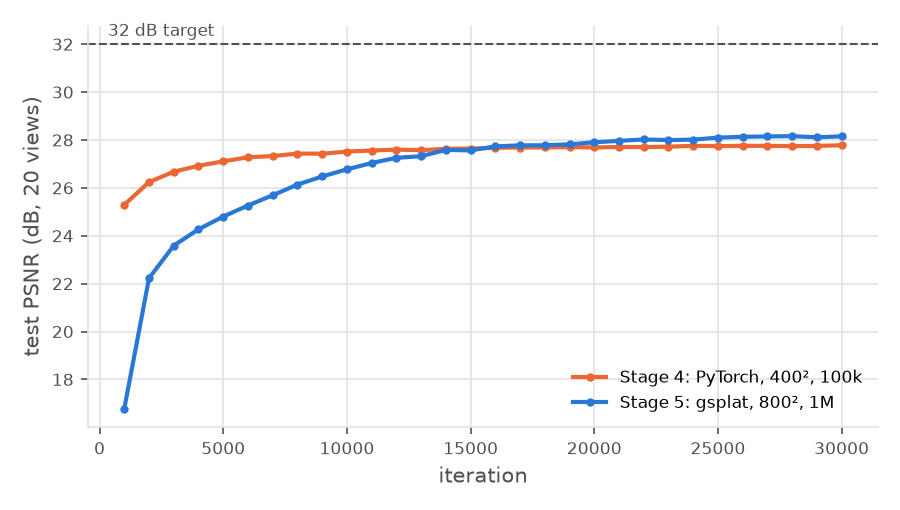
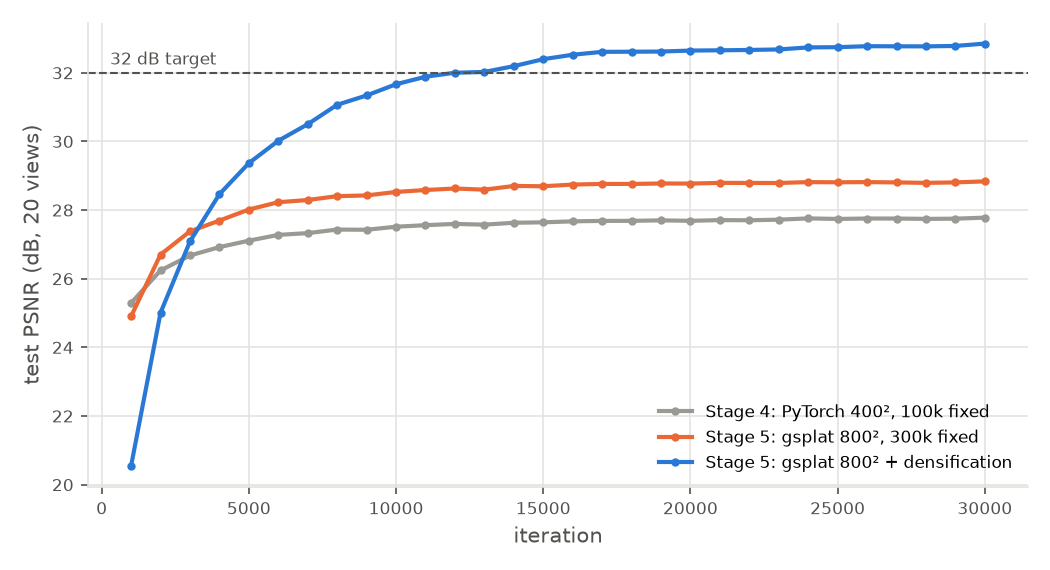
Stage 5: lego 32.96 dB at 800x800 with reference densification; README section
- fixed-set runs (100k/300k/1M) stall at <=28.95 dB: 97% of error on the object
- gsplat DefaultStrategy in my loop: 100k -> 360k Gaussians, 32.96 dB / SSIM 0.977, 16 min
- figures: agreement, benchmark, renders with zooms, curves

Changed region(s): [[0.0, 0.0294, 0.9956, 0.9706]]

diff --git a/scripts/plot_stage5.py b/scripts/plot_stage5.py
@@ -31,10 +31,11 @@ def style(ax):
 
 def main():
     ap = argparse.ArgumentParser()
-    ap.add_argument("--run", required=True)
+    ap.add_argument("--run", required=True, help="best Stage 5 run (densified)")
+    ap.add_argument("--fixed", required=True, help="best Stage 5 run without densification")
     ap.add_argument("--stage4", required=True)
     args = ap.parse_args()
-    run, run4 = Path(args.run), Path(args.stage4)
+    run, runf, run4 = Path(args.run), Path(args.fixed), Path(args.stage4)
 
     # ---- benchmark: ms and GB vs N, one panel per resolution
     prof = {b: json.load(open(f"/mnt/outputs/profiles/{b}_trained.json")) for b in ("torch", "gsplat")}
@@ -60,31 +61,38 @@ def main():
     axes[0, 0].legend(frameon=False, fontsize=8)
     fig.tight_layout(); fig.savefig(OUT / "stage5_benchmark.png"); plt.close(fig)
 
-    # ---- renders: GT | Stage 4 (400², upsampled) | Stage 5 (800²), full + zoom
+    # ---- renders: GT | Stage 4 (400², upsampled) | Stage 5 fixed set | Stage 5 densified, full + zoom
     f5 = sorted((run / "renders").glob("test_*.png"))[:2]
-    fig, axes = plt.subplots(2 * len(f5), 3, figsize=(10.5, 7 * len(f5)), dpi=150)
+    cols = 4
+    fig, axes = plt.subplots(2 * len(f5), cols, figsize=(3.4 * cols, 7 * len(f5)), dpi=150)
     for k, f in enumerate(f5):
-        im5 = iio.imread(f); w = im5.shape[1] // 2
-        gt, r5 = im5[:, :w], im5[:, w:]
-        im4 = iio.imread(run4 / "renders" / f.name); w4 = im4.shape[1] // 2
-        r4 = np.repeat(np.repeat(im4[:, w4:], 2, 0), 2, 1)          # 400 -> 800, nearest
-        y0, x0, s = 330, 300, 160                                    # zoom on the bucket / tracks
-        for c, (im, t) in enumerate(((gt, "ground truth 800²"), (r4, "Stage 4: PyTorch, 400² (×2)"),
-                                     (r5, "Stage 5: gsplat, 800²"))):
+        def half(p, right=True):
+            im = iio.imread(p); w = im.shape[1] // 2
+            return im[:, w:] if right else im[:, :w]
+        gt, r5 = half(f, False), half(f)
+        rf = half(runf / "renders" / f.name)
+        r4 = np.repeat(np.repeat(half(run4 / "renders" / f.name), 2, 0), 2, 1)   # 400 -> 800, nearest
+        y0, x0, s = 330, 300, 160                                    # zoom window
+        tiles = ((gt, "ground truth 800²"), (r4, "Stage 4: PyTorch 400², 100k fixed (×2)"),
+                 (rf, "Stage 5: gsplat 800², 300k fixed"), (r5, "Stage 5: gsplat 800² + densification"))
+        for c, (im, t) in enumerate(tiles):
             axes[2 * k, c].imshow(im); axes[2 * k + 1, c].imshow(im[y0:y0 + s, x0:x0 + s], interpolation="nearest")
             if k == 0:
-                axes[0, c].set_title(t, fontsize=9, color=INK)
+                axes[0, c].set_title(t, fontsize=8, color=INK)
             for a in (axes[2 * k, c], axes[2 * k + 1, c]):
                 a.set_xticks([]); a.set_yticks([])
             axes[2 * k, c].add_patch(plt.Rectangle((x0, y0), s, s, fill=False, ec="#eb6834", lw=1))
     fig.tight_layout(); fig.savefig(OUT / "stage5_renders.png"); plt.close(fig)
 
     # ---- test PSNR curve, both stages
-    fig, ax = plt.subplots(figsize=(6, 3.4), dpi=150)
-    for r, b, lab in ((run4, "torch", "Stage 4: PyTorch, 400², 100k"), (run, "gsplat", "Stage 5: gsplat, 800², 1M")):
+    fig, ax = plt.subplots(figsize=(7, 3.8), dpi=150)
+    runs = ((run4, "#9a9994", "Stage 4: PyTorch 400², 100k fixed"),
+            (runf, BACKEND["torch"][0], "Stage 5: gsplat 800², 300k fixed"),
+            (run, BACKEND["gsplat"][0], "Stage 5: gsplat 800² + densification"))
+    for r, col, lab in runs:
         ea = EventAccumulator(str(r / "tb")); ea.Reload()
         ev = ea.Scalars("test/psnr")
-        ax.plot([e.step for e in ev], [e.value for e in ev], color=BACKEND[b][0], lw=2, marker="o", ms=3, label=lab)
+        ax.plot([e.step for e in ev], [e.value for e in ev], color=col, lw=2, marker="o", ms=3, label=lab)
     ax.axhline(32, color=MUTED, lw=1, ls="--")
     ax.annotate("32 dB target", (0, 32), xytext=(4, 4), textcoords="offset points", fontsize=8, color=MUTED)
     ax.set_xlabel("iteration", color=MUTED); ax.set_ylabel("test PSNR (dB, 20 views)", color=MUTED); style(ax)

diff --git a/README.md b/README.md
@@ -12,7 +12,7 @@ and explained before the next; this README is updated with the results of every 
 | 2 | 3D forward model in pure PyTorch | ✅ 15 tests incl. gradcheck, EWA vs Monte Carlo |
 | 3 | Synthetic inverse problem | ✅ exact recovery from GT+noise; 81.5 % from random init, 97.5 % with 2× Gaussians |
 | 4 | Blender lego with my renderer | ✅ 27.88 dB at 400² (no densification); breaks at ~80 M pairs / 10 h per run at 800² |
-| 5 | Tiled CUDA rasterizer (gsplat) | next |
+| 5 | Tiled CUDA rasterizer (gsplat) | ✅ 32.96 dB at 800² with gsplat's reference densification; my own densification next |
 | 6 | Plant data pipeline | |
 | 7 | Plant training ablations | |
 | 8 | Pushing the T4 to maximum detail | |
@@ -495,6 +495,106 @@ work:
 
 ---
 
+## Stage 5: Tiled CUDA rasterizer (gsplat), same training loop
+
+Code: [`src/render_gsplat.py`](src/render_gsplat.py) (same interface as `render_torch`),
+[`tests/test_render_gsplat.py`](tests/test_render_gsplat.py),
+[`scripts/stage5_agreement.py`](scripts/stage5_agreement.py),
+[`configs/stage5_lego_gsplat*.yaml`](configs/).
+
+### What gsplat does differently (read from its 1.5.3 CUDA source)
+
+* **Tiles instead of pairs.** Each Gaussian is assigned to the 16×16 tiles its bounding box
+  overlaps, (tile, Gaussian) keys are radix-sorted once by depth, and one CUDA block per
+  tile composites its list in shared memory and *stops* once every pixel in the tile is
+  saturated. Hidden Gaussians are never evaluated, which is exactly the work the
+  pair-based PyTorch renderer couldn't skip (Stage 4).
+* **Constants.** α clamp 0.999 (the 3DGS paper uses 0.99); support is an opacity-aware box
+  of half-width $\min(3.33, \sqrt{2\ln(255\,o)})\sqrt{\Sigma'_{ii}}$ per axis, with no
+  ellipse test. `render_torch` gained `alpha_max` and `q_cutoff` parameters to reproduce
+  them; its defaults are unchanged, so Stages 1–4 reproduce exactly.
+* **Packed mode** (default here) carries only the visible Gaussians through the pipeline.
+  Its 1.5.3 shape check rejects a background, so the wrapper composites
+  $C + (1-\alpha)\,\text{bg}$ itself (the same $T_\text{final}\cdot\text{bg}$ term).
+
+### Numerical agreement
+
+With gsplat's constants, the two renderers agree **to float32 precision** (300 random
+anisotropic Gaussians, 160×120, white background):
+
+| scene | mode | max \|Δ image\| | mean \|Δ image\| | max \|Δ alpha\| |
+|---|---|---|---|---|
+| seed 0 | classic | 1.0e-06 | 4.4e-08 | 1.2e-06 |
+| seed 0 | antialiased | 1.1e-06 | 4.3e-08 | 1.3e-06 |
+| seed 1 | classic | 6.9e-07 | 4.1e-08 | 1.4e-06 |
+| seed 2 | classic | 9.5e-07 | 5.0e-08 | 7.2e-07 |
+
+| parameter | cosine(∇torch, ∇gsplat) | ‖Δ∇‖ / ‖∇torch‖ |
+|---|---|---|
+| means | 1.000000 | 8.4e-06 |
+| quats | 1.000000 | 5.2e-06 |
+| scales | 1.000000 | 7.3e-06 |
+| opacities | 1.000000 | 8.9e-06 |
+| colors | 1.000000 | 1.6e-05 |
+
+Packed and unpacked modes give identical images. The tests assert max |Δ| < 10⁻⁵ and
+gradient cosine > 0.99999.
+
+![Agreement](docs/figures/stage5_agreement.png)
+
+### Speed and memory: same trained-lego states as Stage 4
+
+| resolution | N | PyTorch ms | gsplat ms | speed-up | PyTorch GB | gsplat GB |
+|---|---|---|---|---|---|---|
+| 200² | 100k | 48 | 5.3 | 9× | 0.14 | 0.01 |
+| 200² | 3M | 800 | 36.5 | 22× | 3.54 | 0.32 |
+| 400² | 1M | 455 | 15.5 | 29× | 2.87 | 0.12 |
+| 400² | 3M | 1382 | 32.0 | 43× | 8.53 | 0.32 |
+| 800² | 300k | 368 | 20.0 | 18× | 2.82 | 0.13 |
+| 800² | 1M | 1198 | 26.3 | 46× | 9.25 | 0.17 |
+| 800² | 3M | **OOM** | 47.8 | — | OOM | 0.33 |
+
+![Benchmark](docs/figures/stage5_benchmark.png)
+
+### Lego at 800×800
+
+My training loop, unchanged apart from the backend. The fixed-set runs (no
+densification) come first, because the plan schedules densification for Stage 7:
+
+| run | Gaussians | test PSNR (200 views) | SSIM | train / test gap | time | peak VRAM |
+|---|---|---|---|---|---|---|
+| fixed random set | 100k | 26.83 | 0.910 | — | 9 min | 0.71 GB |
+| fixed random set | 300k | 28.95 | 0.941 | — | 11 min | 0.79 GB |
+| fixed random set | 1M | 28.06 | 0.945 | 4.5 dB | 17 min | 1.1 GB |
+| **+ adaptive density control** (gsplat `DefaultStrategy`) | 100k → 360k | **32.96** | **0.977** | 3.7 dB | 16 min | 0.82 GB |
+
+**Why the fixed set stalls at ~29 dB.** Splitting the squared error by the ground-truth
+alpha mask:
+* Floaters in empty space account for 20 % of the error with 1M Gaussians, vs 3–4 % with
+  100k–300k. That explains 1M < 300k.
+* Even at 300k, **97 % of the error is on the object itself**. A fixed, randomly placed set
+  can't put capacity where the fine detail is; more Gaussians only add floaters (train
+  32.6 dB vs test 28.2 dB at 1M).
+
+**Adaptive density control fixes exactly that.** gsplat's `DefaultStrategy` implements the
+3DGS paper's rules:
+* Every 100 steps it clones small Gaussians and splits large ones whose accumulated
+  screen-space gradient exceeds 2·10⁻⁴, and prunes those with opacity < 0.005 or that are
+  too large.
+* Every 3000 steps it resets opacity to kill floaters.
+* All of this runs between iterations 500 and 15k.
+
+Hooked into my loop (one Adam per tensor, called after the optimizer step as in gsplat's
+reference trainer), it first pruned the 100k random Gaussians to ~43k, then grew them to
+360k where detail was missing, and passed 32 dB at ~12k iterations. This run is the
+reference that my own `densify.py` (next step) has to match.
+
+![Lego renders](docs/figures/stage5_renders.png)
+
+![Stage 5 curves](docs/figures/stage5_curves.png)
+
+---
+
 ## Repository layout
 
 ```
@@ -504,9 +604,11 @@ outputs/   -> /mnt/outputs   (runs; not in git)
 docs/figures/                figures embedded in this README
 scripts/      setup_env.sh, check_env.py, gpu_bench.py, gsplat_smoke.py, tensorboard.sh,
               stage1_sweep.sh, plot_stage1.py, stage2_scene.py, stage3_sweep.sh,
-              plot_stage3.py, profile_torch_renderer.py, plot_stage4.py
+              plot_stage3.py, profile_torch_renderer.py, plot_stage4.py,
+              stage5_agreement.py, plot_stage5.py
 src/          config.py, run.py, splat2d.py, fit2d.py, rasterize.py, gaussians.py,
-              camera.py, render_torch.py, synthetic.py, fit_synthetic.py, losses.py, train.py,
+              camera.py, render_torch.py, render_gsplat.py, synthetic.py, fit_synthetic.py,
+              losses.py, train.py,
               and stubs for later stages
 tests/        pytest suite
 ```
